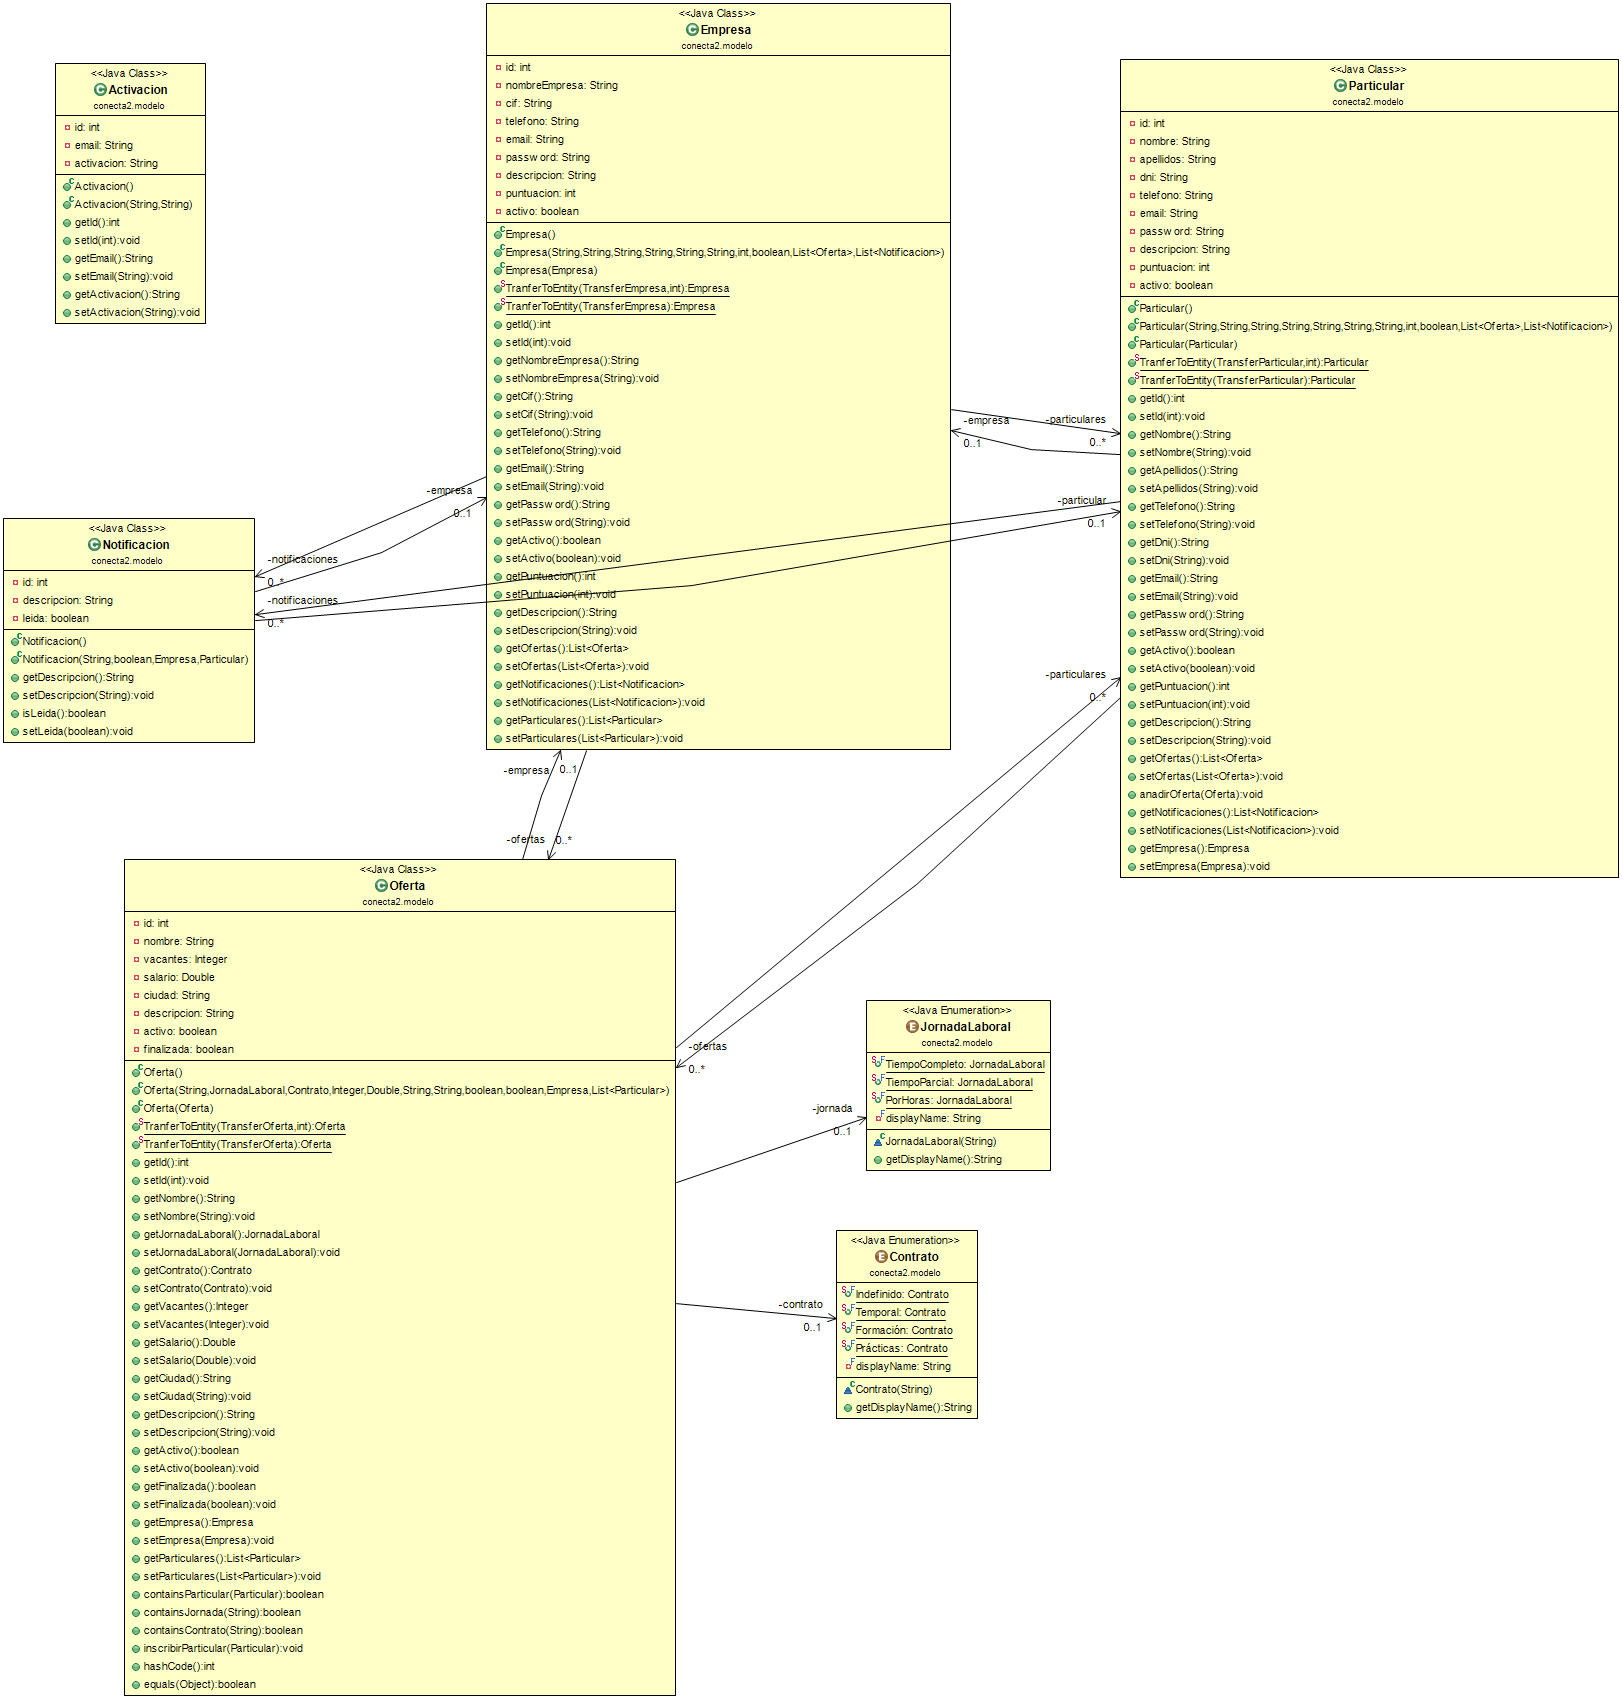
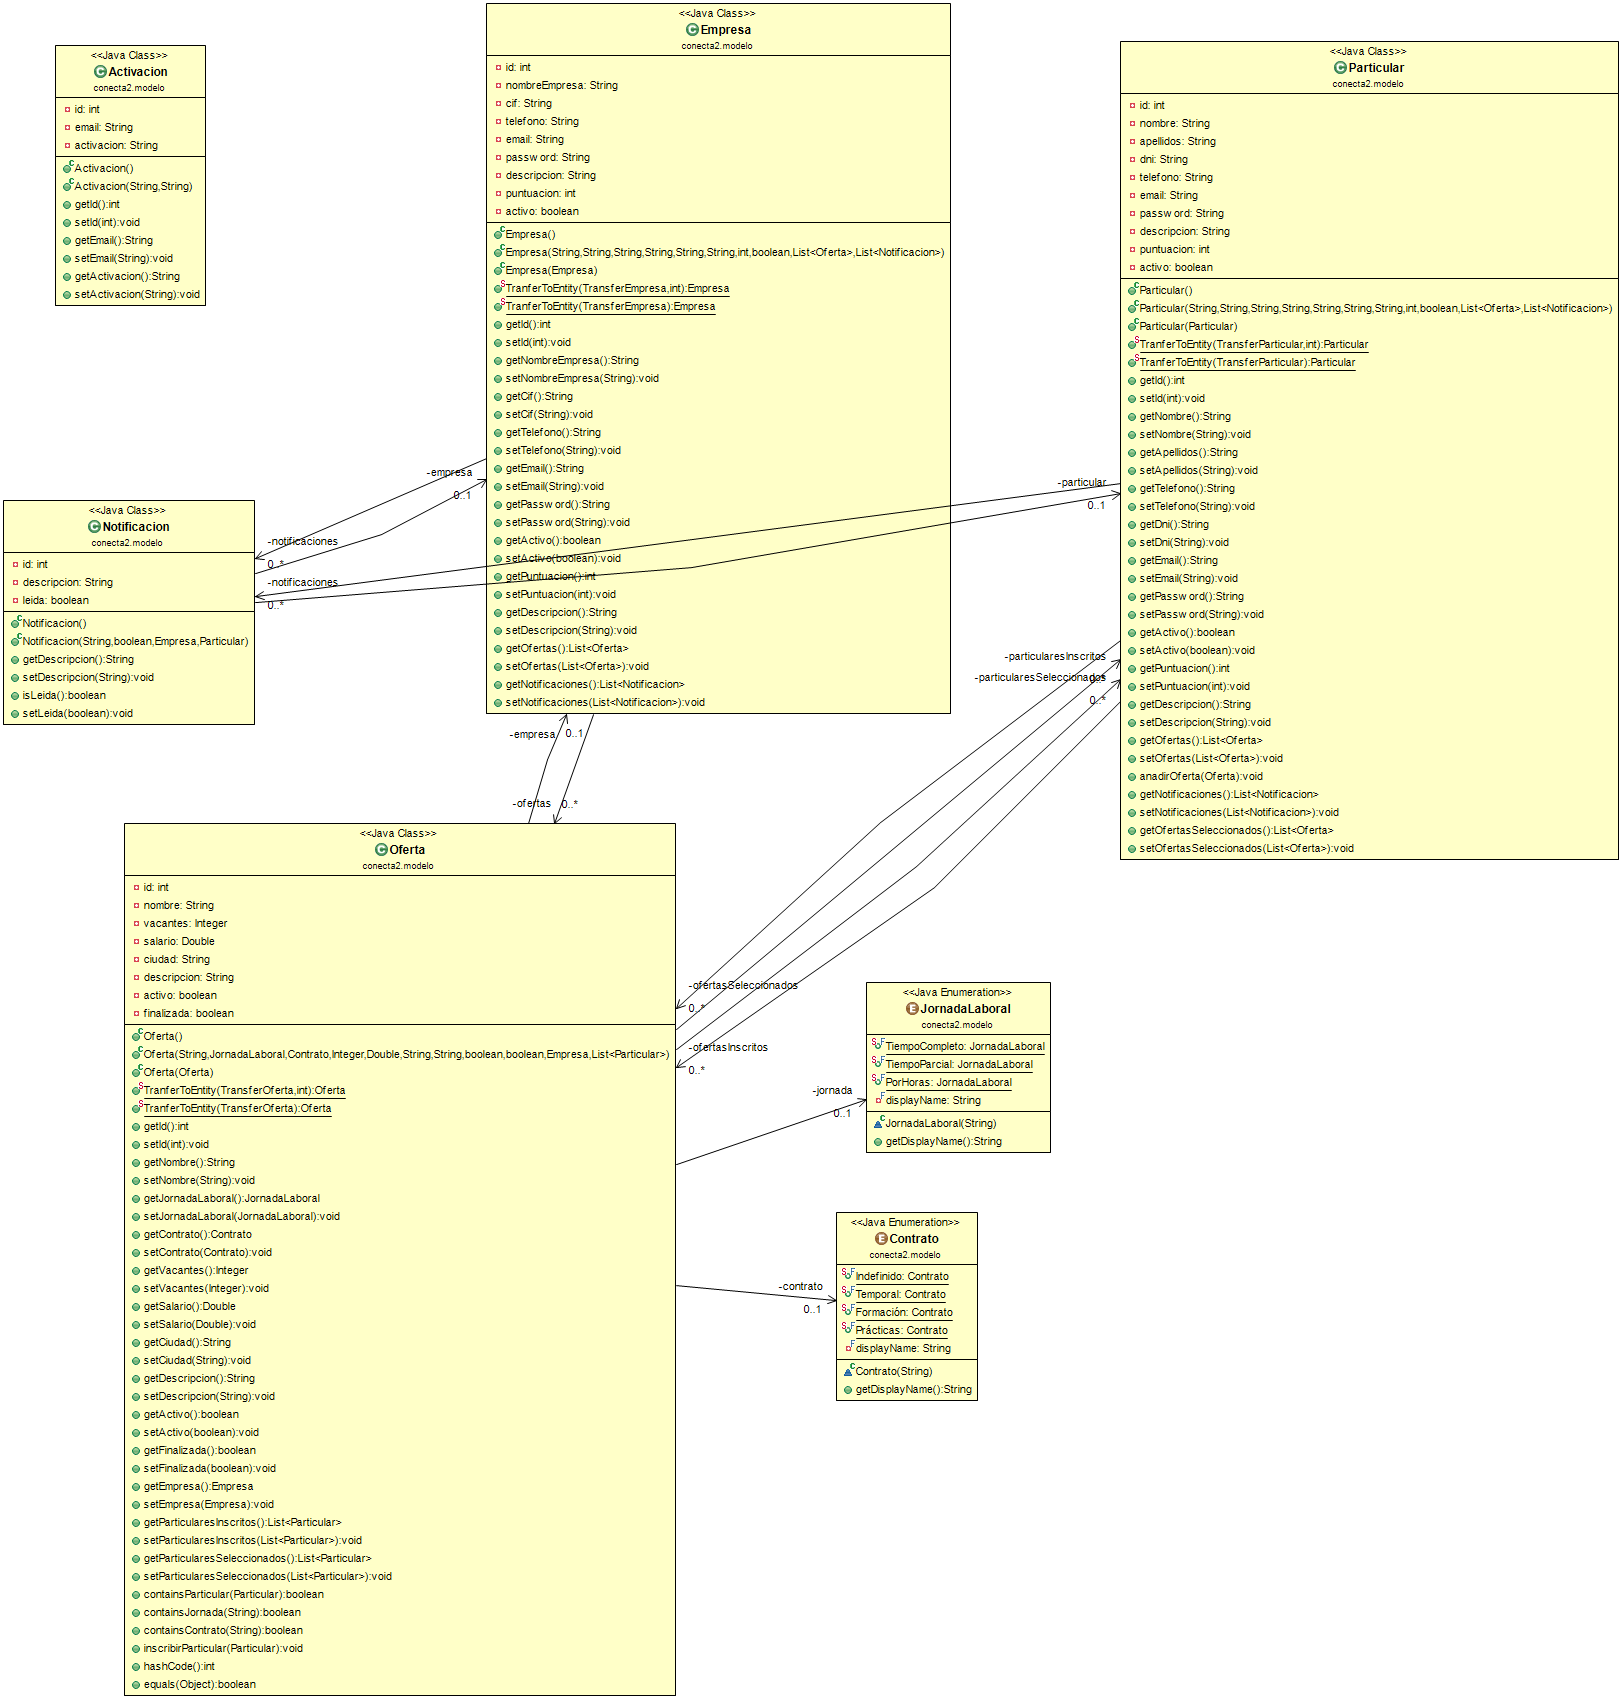
Relacion Particular Oferta seleccionado añadida
Se han agregado todos los cambios pertinentes para que funcione

diff --git a/src/main/resources/templates/mostrarOfertas.html b/src/main/resources/templates/mostrarOfertas.html
@@ -76,7 +76,7 @@
 									<td class="text-center" th:text="${oferta.ciudad}"></td>
 									<td class="text-center" th:text="${oferta.vacantes}"></td>
 									<td class="text-center" th:text="${oferta.salario}"></td>
-									<td class="text-center" th:text="${oferta.particulares.size()}"></td>
+									<td class="text-center" th:text="${oferta.particularesInscritos.size()}"></td>
 									<td class="text-center"> 
 									 <a class="btn btn-secondary dropdown-toggle" href="#" role="button" id="${oferta.id}" data-toggle="dropdown" aria-haspopup="true" aria-expanded="true">
 		   								Opciones

diff --git a/src/main/java/conecta2/modelo/Oferta.java b/src/main/java/conecta2/modelo/Oferta.java
@@ -24,7 +24,7 @@ import conecta2.transfer.TransferOferta;
 @NamedQuery(
     name = "Oferta.findOfertasParticularInscrito",
     //query = "SELECT o FROM Oferta o INNER JOIN o.particulares parts WHERE parts."
-    query ="SELECT o FROM Oferta o WHERE ?1 MEMBER OF o.particulares"
+    query ="SELECT o FROM Oferta o WHERE ?1 MEMBER OF o.particularesInscritos"
 )
 /**
  * Entidad / Objeto de Negocio de Oferta
@@ -63,9 +63,12 @@ public class Oferta {
 	
 	private boolean finalizada;
 	
-	@ManyToMany(mappedBy="ofertas", fetch=FetchType.EAGER)
-	private List<Particular> particulares;
+	@ManyToMany(mappedBy="ofertasInscritos", fetch=FetchType.EAGER)
+	private List<Particular> particularesInscritos;
 
+	@ManyToMany(mappedBy="ofertasSeleccionados")
+	private List<Particular> particularesSeleccionados;
+	
 	@ManyToOne (fetch=FetchType.EAGER)
 	private Empresa empresa;
 
@@ -86,10 +89,12 @@ public class Oferta {
 		this.finalizada = finalizada;
 		this.empresa = empresa;
 		
-		if(this.particulares == null || particulares == null) 
-			this.particulares = new ArrayList<Particular>();
+		this.particularesSeleccionados = new ArrayList<Particular>();
+		
+		if(this.particularesInscritos == null || particulares == null) 
+			this.particularesInscritos = new ArrayList<Particular>();
 		else
-			this.particulares = particulares;
+			this.particularesInscritos = particulares;
 	}
 	
 	public Oferta(Oferta oferta) {
@@ -104,7 +109,7 @@ public class Oferta {
 		this.id = oferta.getId();
 		this.finalizada = oferta.getFinalizada();
 		this.empresa = oferta.getEmpresa();
-		this.particulares= oferta.getParticulares();
+		this.particularesInscritos= oferta.getParticularesInscritos();
 	}
 
 	public static Oferta TranferToEntity(TransferOferta transferOferta, int idOferta) {
@@ -229,18 +234,25 @@ public class Oferta {
 		this.empresa = empresa;
 	}
 	
-	public List<Particular> getParticulares() {
-		return particulares;
+
+	public List<Particular> getParticularesInscritos() {
+		return particularesInscritos;
 	}
 
-	public void setParticulares(List<Particular> particulares) {
-		this.particulares = particulares;
+	public void setParticularesInscritos(List<Particular> particularesInscritos) {
+		this.particularesInscritos = particularesInscritos;
 	}
 
+	public List<Particular> getParticularesSeleccionados() {
+		return particularesSeleccionados;
+	}
 
+	public void setParticularesSeleccionados(List<Particular> particularesSeleccionados) {
+		this.particularesSeleccionados = particularesSeleccionados;
+	}
 
 	public boolean containsParticular(Particular p) {
-		return this.getParticulares().contains(p);
+		return this.getParticularesInscritos().contains(p);
 	}
 	
 	public boolean containsJornada(String text) {
@@ -267,9 +279,9 @@ public class Oferta {
 	
 	public void inscribirParticular(Particular particular) {
 		
-		if(this.particulares == null)
-			this.particulares = new ArrayList<Particular>();
-		this.particulares.add(particular);
+		if(this.particularesInscritos == null)
+			this.particularesInscritos = new ArrayList<Particular>();
+		this.particularesInscritos.add(particular);
 	}
 
 	@Override
@@ -285,7 +297,7 @@ public class Oferta {
 		result = prime * result + id;
 		result = prime * result + ((jornada == null) ? 0 : jornada.hashCode());
 		result = prime * result + ((nombre == null) ? 0 : nombre.hashCode());
-		result = prime * result + ((particulares == null) ? 0 : particulares.hashCode());
+		result = prime * result + ((particularesInscritos == null) ? 0 : particularesInscritos.hashCode());
 		result = prime * result + ((salario == null) ? 0 : salario.hashCode());
 		result = prime * result + ((vacantes == null) ? 0 : vacantes.hashCode());
 		return result;
@@ -330,10 +342,10 @@ public class Oferta {
 				return false;
 		} else if (!nombre.equals(other.nombre))
 			return false;
-		if (particulares == null) {
-			if (other.particulares != null)
+		if (particularesInscritos == null) {
+			if (other.particularesInscritos != null)
 				return false;
-		} else if (!particulares.equals(other.particulares))
+		} else if (!particularesInscritos.equals(other.particularesInscritos))
 			return false;
 		if (salario == null) {
 			if (other.salario != null)
@@ -347,4 +359,6 @@ public class Oferta {
 			return false;
 		return true;
 	}
+	
+	
 }

diff --git a/src/main/java/conecta2/modelo/Particular.java b/src/main/java/conecta2/modelo/Particular.java
@@ -3,6 +3,7 @@ package conecta2.modelo;
 import java.util.ArrayList;
 import java.util.List;
 
+import javax.persistence.CascadeType;
 import javax.persistence.Column;
 import javax.persistence.Entity;
 import javax.persistence.FetchType;
@@ -10,7 +11,6 @@ import javax.persistence.GeneratedValue;
 import javax.persistence.GenerationType;
 import javax.persistence.Id;
 import javax.persistence.ManyToMany;
-import javax.persistence.ManyToOne;
 import javax.persistence.OneToMany;
 import javax.persistence.Table;
 import javax.validation.constraints.Pattern;
@@ -81,14 +81,16 @@ public class Particular {
 	private boolean activo;
 	
 	
-	@ManyToMany
-	private List<Oferta> ofertas;
+	@ManyToMany(cascade=CascadeType.ALL)
+	private List<Oferta> ofertasInscritos;
+	
+	@ManyToMany(cascade=CascadeType.ALL)
+	private List<Oferta> ofertasSeleccionados;
+	
 	
 	@OneToMany(mappedBy = "particular",fetch=FetchType.LAZY)
 	private List<Notificacion> notificaciones;
 	
-	@ManyToOne (fetch=FetchType.EAGER)
-	private Empresa empresa;
 
 	/**
 	 * Constructora sin argumentos necesaria para JPA
@@ -105,7 +107,7 @@ public class Particular {
 	 * @param activo
 	 * @param puntuacion
 	 */
-	public Particular(String nombre, String apellidos, String dni, String telefono, String email, String password, String descripcion, int puntuacion, boolean activo, List<Oferta> ofertas, List<Notificacion> notificaciones) {
+	public Particular(String nombre, String apellidos, String dni, String telefono, String email, String password, String descripcion, int puntuacion, boolean activo, List<Oferta> ofertasInscritos, List<Notificacion> notificaciones) {
 		this.nombre = nombre;
 		this.apellidos = apellidos;
 		this.dni = dni;
@@ -116,10 +118,12 @@ public class Particular {
 		this.puntuacion = puntuacion;
 		this.activo = activo;
 		
-		if(this.ofertas == null || ofertas == null) 
-			this.ofertas = new ArrayList<Oferta>();
+		this.ofertasSeleccionados = new ArrayList<Oferta>(); 
+		
+		if(this.ofertasInscritos == null || ofertasInscritos == null) 
+			this.ofertasInscritos = new ArrayList<Oferta>();
 		else
-			this.ofertas = ofertas;
+			this.ofertasInscritos = ofertasInscritos;
 		
 		if(this.notificaciones == null || notificaciones == null) 
 			this.notificaciones = new ArrayList<Notificacion>();
@@ -142,10 +146,10 @@ public class Particular {
 		this.puntuacion = particular.puntuacion;
 		this.activo = particular.activo;
 		
-		if(this.ofertas == null || particular.ofertas == null) 
-			this.ofertas = new ArrayList<Oferta>();
+		if(this.ofertasInscritos == null || particular.ofertasInscritos == null) 
+			this.ofertasInscritos = new ArrayList<Oferta>();
 		else
-			this.ofertas = particular.ofertas;
+			this.ofertasInscritos = particular.ofertasInscritos;
 		
 		if(this.notificaciones == null || particular.notificaciones == null) 
 			this.notificaciones = new ArrayList<Notificacion>();
@@ -268,18 +272,18 @@ public class Particular {
 	}
 	
 	public List<Oferta> getOfertas() {
-		return ofertas;
+		return ofertasInscritos;
 	}
 
 	public void setOfertas(List<Oferta> ofertas) {
-		this.ofertas = ofertas;
+		this.ofertasInscritos = ofertas;
 	}
 	
 	public void anadirOferta(Oferta oferta) {
 		
-		if(this.ofertas == null)
-			this.ofertas = new ArrayList<Oferta>();
-		this.ofertas.add(oferta);		
+		if(this.ofertasInscritos == null)
+			this.ofertasInscritos = new ArrayList<Oferta>();
+		this.ofertasInscritos.add(oferta);		
 		
 	}
 	
@@ -291,13 +295,14 @@ public class Particular {
 		this.notificaciones = notificaciones;
 	}
 
-	public Empresa getEmpresa() {
-		return empresa;
+	public List<Oferta> getOfertasSeleccionados() {
+		return ofertasSeleccionados;
 	}
 
-	public void setEmpresa(Empresa empresa) {
-		this.empresa = empresa;
+	public void setOfertasSeleccionados(List<Oferta> ofertasSeleccionados) {
+		this.ofertasSeleccionados = ofertasSeleccionados;
 	}
+
 
     
 }

diff --git a/src/main/java/conecta2/controlador/ControladorPrincipal.java b/src/main/java/conecta2/controlador/ControladorPrincipal.java
@@ -596,7 +596,7 @@ public class ControladorPrincipal {
 		if(oferta != null) {
 			modelAndView = new ModelAndView();
 			TransferOferta tOferta = new TransferOferta(oferta.getNombre(),oferta.getJornadaLaboral(), oferta.getContrato(), oferta.getVacantes(), oferta.getSalario(), oferta.getCiudad(), oferta.getDescripcion(),
-					oferta.getActivo(), oferta.getFinalizada(), oferta.getEmpresa(), oferta.getParticulares());
+					oferta.getActivo(), oferta.getFinalizada(), oferta.getEmpresa(), oferta.getParticularesInscritos());
 			
 			modelAndView.addObject("transferOferta", tOferta);
 			modelAndView.setViewName("verOferta");
@@ -864,7 +864,7 @@ public class ControladorPrincipal {
 			
 			if(oferta != null) {// si se encuentra la oferta
 				
-				if(oferta.getParticulares().contains(particular)) {//si ya está inscrito
+				if(oferta.getParticularesInscritos().contains(particular)) {//si ya está inscrito
 					modelAndView.setViewName("mostrarOfertas");
 					String msg = "¡Ya estás inscrito!";
 					modelAndView.addObject("popup", msg);
@@ -961,7 +961,7 @@ public class ControladorPrincipal {
 		if(oferta != null) {
 			modelAndView = new ModelAndView();
 			
-			List<Particular> particulares = oferta.getParticulares();
+			List<Particular> particulares = oferta.getParticularesInscritos();
 			List<Particular> listaCandidatos = new ArrayList<Particular>();
 			for(int i = 0; i < particulares.size(); i++) {
 				
@@ -1030,7 +1030,7 @@ public class ControladorPrincipal {
 					else {
 						//Si se encuentra al candidato, comprobamos que el candidato
 						//está en la lista de particulares de la oferta
-						List<Particular> listaParticulares = oferta.getParticulares();
+						List<Particular> listaParticulares = oferta.getParticularesInscritos();
 						
 						if(listaParticulares.contains(candidato)) {//si se encuentra en la lista de ofertas
 							modelAndView = new ModelAndView();

diff --git a/src/main/java/conecta2/modelo/Empresa.java b/src/main/java/conecta2/modelo/Empresa.java
@@ -80,8 +80,6 @@ public class Empresa {
 	@OneToMany(mappedBy = "empresa",fetch=FetchType.LAZY)
 	private List<Notificacion> notificaciones;
 	
-	@OneToMany(mappedBy = "empresa",fetch=FetchType.LAZY)
-	private List<Particular> particulares;
 	
 	/**
 	 * Constructora sin argumentos necesaria para JPA
@@ -121,7 +119,7 @@ public class Empresa {
 			this.notificaciones = notificaciones;
 		}
 		
-		this.particulares = new ArrayList<Particular>();
+		
 	}
 	
 	/**
@@ -269,14 +267,5 @@ public class Empresa {
 		this.notificaciones = notificaciones;
 	}
 
-	public List<Particular> getParticulares() {
-		return particulares;
-	}
-
-	public void setParticulares(List<Particular> particulares) {
-		this.particulares = particulares;
-	}
-	
-	
 
 }

diff --git a/src/test/java/integrationTests/HU09InscribirseEnOfertaTest.java b/src/test/java/integrationTests/HU09InscribirseEnOfertaTest.java
@@ -53,7 +53,7 @@ public class HU09InscribirseEnOfertaTest {
 		oferta = saOferta.save(oferta);
 		particular = saParticular.save(particular);
 		
-		boolean contains = (oferta.getParticulares().contains(particular)) && (particular.getOfertas().contains(oferta));
+		boolean contains = (oferta.getParticularesInscritos().contains(particular)) && (particular.getOfertas().contains(oferta));
 		
 		assertEquals(true, contains);
 	}

diff --git a/src/test/java/unitTests/HU09InscribirseEnOfertaTest.java b/src/test/java/unitTests/HU09InscribirseEnOfertaTest.java
@@ -36,7 +36,7 @@ public class HU09InscribirseEnOfertaTest {
 		
 		repOferta.save(oferta);
 		
-		List<Particular> particulares = oferta.getParticulares();
+		List<Particular> particulares = oferta.getParticularesInscritos();
 		
 		assertEquals(particulares.isEmpty(), true);
 	}

diff --git a/src/test/java/integrationTests/HU10VerDetallesCandidatoTest.java b/src/test/java/integrationTests/HU10VerDetallesCandidatoTest.java
@@ -54,7 +54,7 @@ public class HU10VerDetallesCandidatoTest {
 		
 		particular = saParticular.save(particular);
 		
-		assertEquals(true, oferta.getParticulares().contains(particular));
+		assertEquals(true, oferta.getParticularesInscritos().contains(particular));
 
 	}
 }

diff --git a/src/main/java/conecta2/transfer/TransferOferta.java b/src/main/java/conecta2/transfer/TransferOferta.java
@@ -158,7 +158,7 @@ public class TransferOferta {
 				oferta.getActivo(),
 				oferta.getFinalizada(),
 				oferta.getEmpresa(),
-				oferta.getParticulares()
+				oferta.getParticularesInscritos()
 				);
 	}
 	
